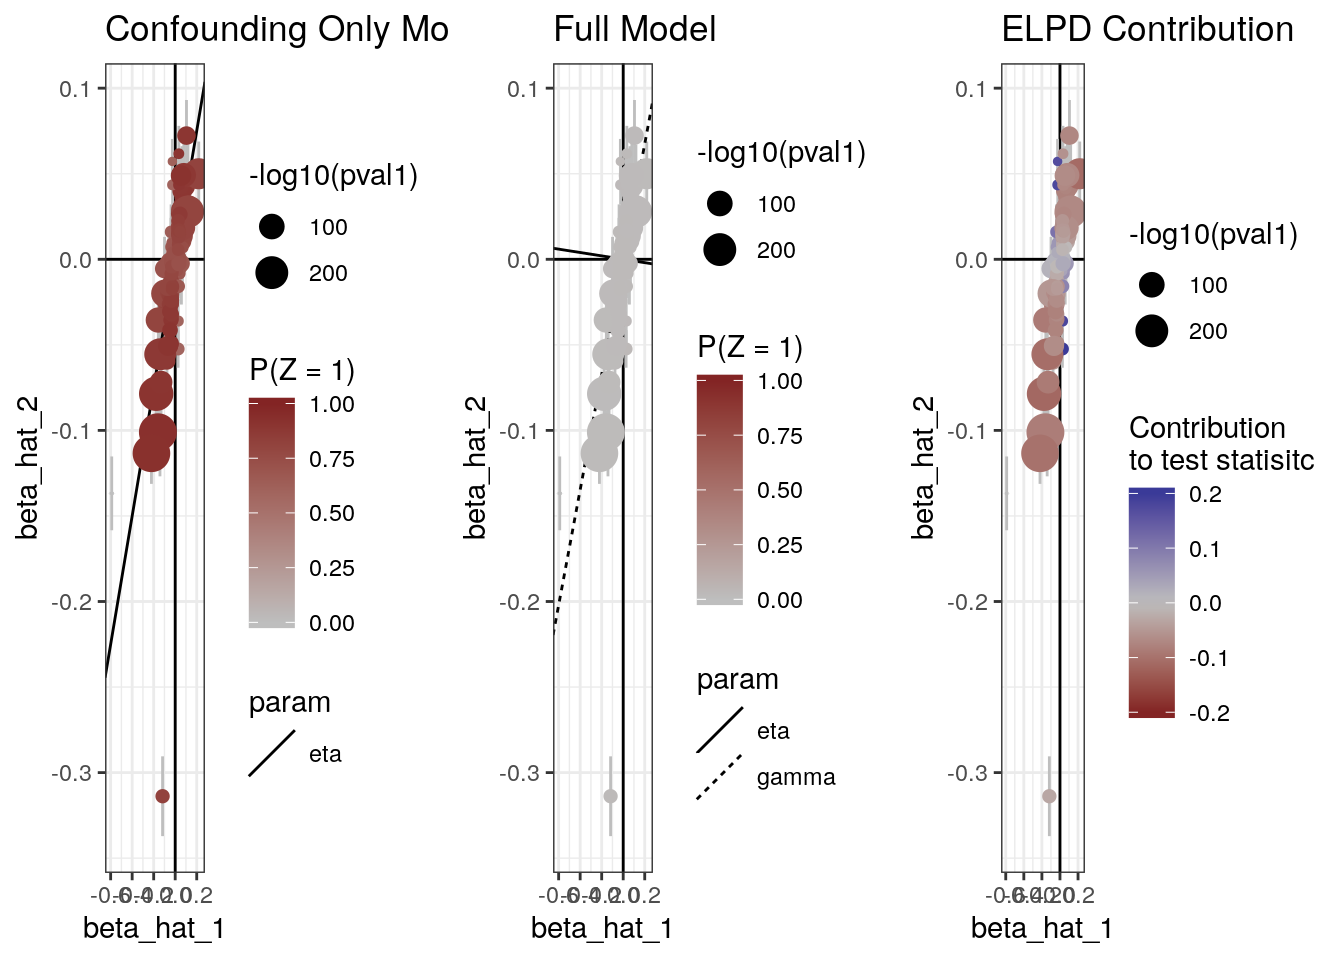
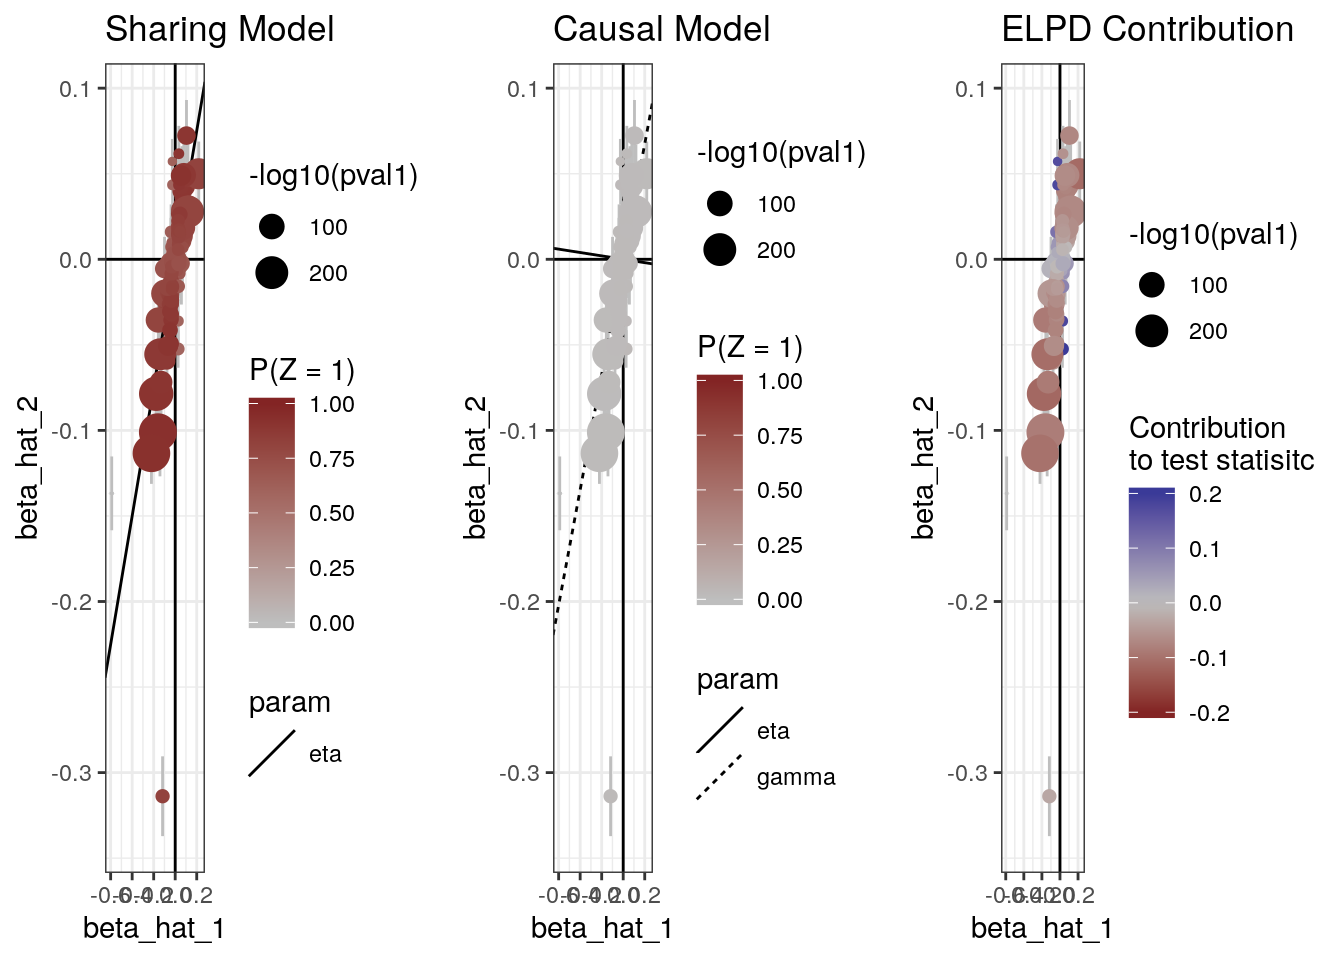
Build site.

Changed region(s): [[0.0625, 0.0, 0.3438, 0.0625], [0.4062, 0.0, 0.5625, 0.0625]]

diff --git a/docs/ldl_cad.html b/docs/ldl_cad.html
@@ -450,7 +450,7 @@ div.section {
 <div class="tab-content">
 <div id="summary" class="tab-pane fade in active">
 <p>
-<strong>Last updated:</strong> 2019-07-12
+<strong>Last updated:</strong> 2019-07-15
 </p>
 <p>
 <strong>Checks:</strong> <span class="glyphicon glyphicon-ok text-success" aria-hidden="true"></span> 6 <span class="glyphicon glyphicon-exclamation-sign text-danger" aria-hidden="true"></span> 1
@@ -585,10 +585,10 @@ environment
 <div class="panel panel-default">
 <div class="panel-heading">
 <p class="panel-title">
-<a data-toggle="collapse" data-parent="#workflowr-checks" href="#strongRepositoryversionstrongahrefhttpsgithubcomjean997causetree81d18417738e6fe77a859dc6ed976634ac359abftargetblank81d1841a"> <span class="glyphicon glyphicon-ok text-success" aria-hidden="true"></span> <strong>Repository version:</strong> <a href="https://github.com/jean997/cause/tree/81d18417738e6fe77a859dc6ed976634ac359abf" target="_blank">81d1841</a> </a>
+<a data-toggle="collapse" data-parent="#workflowr-checks" href="#strongRepositoryversionstrongahrefhttpsgithubcomjean997causetree02aa566eb42e92315345923066a7fbdb9d921115targetblank02aa566a"> <span class="glyphicon glyphicon-ok text-success" aria-hidden="true"></span> <strong>Repository version:</strong> <a href="https://github.com/jean997/cause/tree/02aa566eb42e92315345923066a7fbdb9d921115" target="_blank">02aa566</a> </a>
 </p>
 </div>
[2 lines of base64/hex data omitted]
 <div class="panel-body">
 <p>
 Great! You are using Git for version control. Tracking code development and connecting the code version to the results is critical for reproducibility. The version displayed above was the version of the Git repository at the time these results were generated. <br><br> Note that you need to be careful to ensure that all relevant files for the analysis have been committed to Git prior to generating the results (you can use <code>wflow_publish</code> or <code>wflow_git_commit</code>). workflowr only checks the R Markdown file, but you know if there are other scripts or data files that it depends on. Below is the status of the Git repository when the results were generated:
@@ -597,21 +597,18 @@ Great! You are using Git for version control. Tracking code development and conn
 Ignored files:
     Ignored:    .Rhistory
     Ignored:    .Rproj.user/
-    Ignored:    analysis/figure/
+    Ignored:    sim_results/
+    Ignored:    src/RcppExports.o
+    Ignored:    src/cause.so
+    Ignored:    src/log_likelihood_functions.o
 
 Untracked files:
-    Untracked:   (tumble-track's conflicted copy 2019-07-09).Rhistory
-    Untracked:  DESCRIPTION (tumble-track's conflicted copy 2019-07-09)
+    Untracked:  analysis/figure/
+    Untracked:  cause.Rcheck/
     Untracked:  docs/cause.bib
     Untracked:  docs/figure/cause_figure_1_standalone.pdf
-    Untracked:  example_data/chr22_AF0.05_0.1.RDS
-    Untracked:  example_data/chr22_AF0.05_snpdata.RDS
     Untracked:  gwas_data/
     Untracked:  ll_v7_notes.Rmd
-    Untracked:  sim_results/
-    Untracked:  src/RcppExports.o
-    Untracked:  src/log_likelihood_functions.o
-    Untracked:  temp.txt
 
 </code></pre>
 <p>
@@ -650,6 +647,40 @@ Message
 </tr>
 </thead>
 <tbody>
+<tr>
+<td>
+Rmd
+</td>
+<td>
+<a href="https://github.com/jean997/cause/blob/02aa566eb42e92315345923066a7fbdb9d921115/analysis/ldl_cad.Rmd" target="_blank">02aa566</a>
+</td>
+<td>
+Jean Morrison
+</td>
+<td>
+2019-07-16
+</td>
+<td>
+wflow_publish(“analysis/ldl_cad.Rmd”)
+</td>
+</tr>
+<tr>
+<td>
+html
+</td>
+<td>
+<a href="https://rawcdn.githack.com/jean997/cause/1702accf8cc1746a5c599ab18b712450765ba676/docs/ldl_cad.html" target="_blank">1702acc</a>
+</td>
+<td>
+Jean Morrison
+</td>
+<td>
+2019-07-12
+</td>
+<td>
+Build site.
+</td>
+</tr>
 <tr>
 <td>
 html
@@ -1320,27 +1351,27 @@ Of these,  22835  have LD information.</code></pre>
 </div>
 <div id="step-4-fit-cause" class="section level2">
 <h2>Step 4: Fit CAUSE</h2>
-<p>Now that we have formatted data, an LD pruned set of variants, and nuisance parameters estimated, we can fit CAUSE! The function <code>cause</code> estimates posterior distributions under the sharing and causal models and calculates the ELPD for both models as well as for the null model in which there is neither a causal or a confounding effect. This might take 5-10 minutes.</p>
+<p>Now that we have formatted data, an LD pruned set of variants, and nuisance parameters estimated, we can fit CAUSE! The function <code>cause</code> estimates posterior distributions under the sharing and causal models and calculates the ELPD for both models as well as for the null model in which there is neither a causal or a shared factor effect. This might take 5-10 minutes.</p>
 <pre class="r"><code>top_vars &lt;- readRDS(&quot;example_data/top_ldl_pruned_vars.RDS&quot;)
 res &lt;- cause(X=X, variants = top_vars, param_ests = params)</code></pre>
 <pre><code>Estimating CAUSE posteriors using  1215  variants.</code></pre>
 </div>
 <div id="step-5-look-at-results" class="section level2">
 <h2>Step 5: Look at Results</h2>
-<p>The resulting <code>cause</code> object contains an object for the partial sharing model fit (<code>conf</code>), and object for the causal model fit (<code>full</code>) and a table of ELPD results.</p>
+<p>The resulting <code>cause</code> object contains an object for the partial sharing model fit (<code>sharing</code>), and object for the causal model fit (<code>causal</code>) and a table of ELPD results.</p>
 <pre class="r"><code>class(res)</code></pre>
 <pre><code>[1] &quot;cause&quot;</code></pre>
 <pre class="r"><code>names(res)</code></pre>
-<pre><code>[1] &quot;conf&quot;    &quot;full&quot;    &quot;elpd&quot;    &quot;loos&quot;    &quot;data&quot;    &quot;sigma_g&quot; &quot;qalpha&quot; 
+<pre><code>[1] &quot;sharing&quot; &quot;causal&quot;  &quot;elpd&quot;    &quot;loos&quot;    &quot;data&quot;    &quot;sigma_g&quot; &quot;qalpha&quot; 
 [8] &quot;qbeta&quot;  </code></pre>
 <pre class="r"><code>res$elpd</code></pre>
-<pre><code>  model1 model2 delta_elpd se_delta_elpd         z
-1   null   conf -63.488710      7.978181 -7.957793
-2   null   full -71.880159      9.175262 -7.834126
-3   conf   full  -8.391449      1.285055 -6.530034</code></pre>
-<pre class="r"><code>class(res$conf)</code></pre>
+<pre><code>   model1  model2 delta_elpd se_delta_elpd         z
+1    null sharing -63.488710      7.978181 -7.957793
+2    null  causal -71.880159      9.175262 -7.834126
+3 sharing  causal  -8.391449      1.285055 -6.530034</code></pre>
+<pre class="r"><code>class(res$sharing)</code></pre>
 <pre><code>[1] &quot;cause_post&quot;</code></pre>
-<pre class="r"><code>class(res$full)</code></pre>
+<pre class="r"><code>class(res$causal)</code></pre>
 <pre><code>[1] &quot;cause_post&quot;</code></pre>
 <p>The <code>elpd</code> table has the following columns:</p>
 <ul>
@@ -1349,9 +1380,9 @@ res &lt;- cause(X=X, variants = top_vars, param_ests = params)</code></pre>
 <li>se_delta_elpd: Estimated standard error of delta_elpd</li>
 <li>z: delta_elpd/se_delta_elpd. A z-score that can be compared to a normal distribution to test if the difference in model fit is significant.</li>
 </ul>
-<p>In this case we see that the full (causal) model is significantly better than the confounding model from the thrid line of the table. The <span class="math inline">\(z\)</span>-score is -6.53 corresponding to a p-value of 3.310^{-11}.</p>
+<p>In this case we see that the causal model is significantly better than the sharing model from the thrid line of the table. The <span class="math inline">\(z\)</span>-score is -6.53 corresponding to a p-value of 3.310^{-11}.</p>
 <p>For each model (partial sharing and full) we can plot the posterior distributions of the parameters. Dotted lines show the prior distributions.</p>
-<pre class="r"><code>plot(res$conf)</code></pre>
+<pre class="r"><code>plot(res$sharing)</code></pre>
 <p><img src="figure/ldl_cad.Rmd/plot1-1.png" width="672" style="display: block; margin: auto;" /></p>
 <p>
 <button type="button" class="btn btn-default btn-xs btn-workflowr btn-workflowr-fig" data-toggle="collapse" data-target="#fig-plot1-1">
@@ -1489,7 +1520,7 @@ Jean Morrison
 </table>
 </div>
 </div>
-<pre class="r"><code>plot(res$full)</code></pre>
+<pre class="r"><code>plot(res$causal)</code></pre>
 <p><img src="figure/ldl_cad.Rmd/plot1-2.png" width="672" style="display: block; margin: auto;" /></p>
 <p>
 <button type="button" class="btn btn-default btn-xs btn-workflowr btn-workflowr-fig" data-toggle="collapse" data-target="#fig-plot1-2">
@@ -1631,9 +1662,9 @@ Jean Morrison
 <pre class="r"><code>summary(res, ci_size=0.95)</code></pre>
 <pre><code>p-value testing that causal model is a better fit:  3.3e-11 
 Posterior medians and  95 % credible intervals:
-     model              gamma               eta                  
-[1,] &quot;Confounding Only&quot; NA                  &quot;0.38 (0.31, 0.45)&quot;  
-[2,] &quot;Causal&quot;           &quot;0.34 (0.28, 0.39)&quot; &quot;-0.01 (-0.66, 0.54)&quot;
+     model     gamma               eta                  
+[1,] &quot;Sharing&quot; NA                  &quot;0.38 (0.31, 0.45)&quot;  
+[2,] &quot;Causal&quot;  &quot;0.34 (0.28, 0.39)&quot; &quot;-0.01 (-0.66, 0.54)&quot;
      q                  
 [1,] &quot;0.78 (0.64, 0.88)&quot;
 [2,] &quot;0.03 (0, 0.25)&quot;   </code></pre>
@@ -1776,7 +1807,7 @@ Jean Morrison
 </table>
 </div>
 </div>
-<p>The <code>plot</code> method can also produce scatter plots of the data showing for each model, the probability that each variant is acting through the confounder and the contribution of each variant to the ELPD test statistic.</p>
+<p>The <code>plot</code> method can also produce scatter plots of the data showing for each model, the probability that each variant is acting through the shared factor (<span class="math inline">\(U\)</span>) and the contribution of each variant to the ELPD test statistic.</p>
 <pre class="r"><code>plot(res, type=&quot;data&quot;)</code></pre>
 <p><img src="figure/ldl_cad.Rmd/plot3-1.png" width="672" style="display: block; margin: auto;" /></p>
 <p>
@@ -1910,7 +1941,7 @@ attached base packages:
 [1] stats     graphics  grDevices utils     datasets  methods   base     
 
 other attached packages:
-[1] cause_0.2.0.0126 dplyr_0.8.3      readr_1.3.1     
+[1] cause_0.2.0.0161 dplyr_0.8.3      readr_1.3.1     
 
 loaded via a namespace (and not attached):
  [1] tidyselect_0.2.5     xfun_0.8             ashr_2.2-32         
